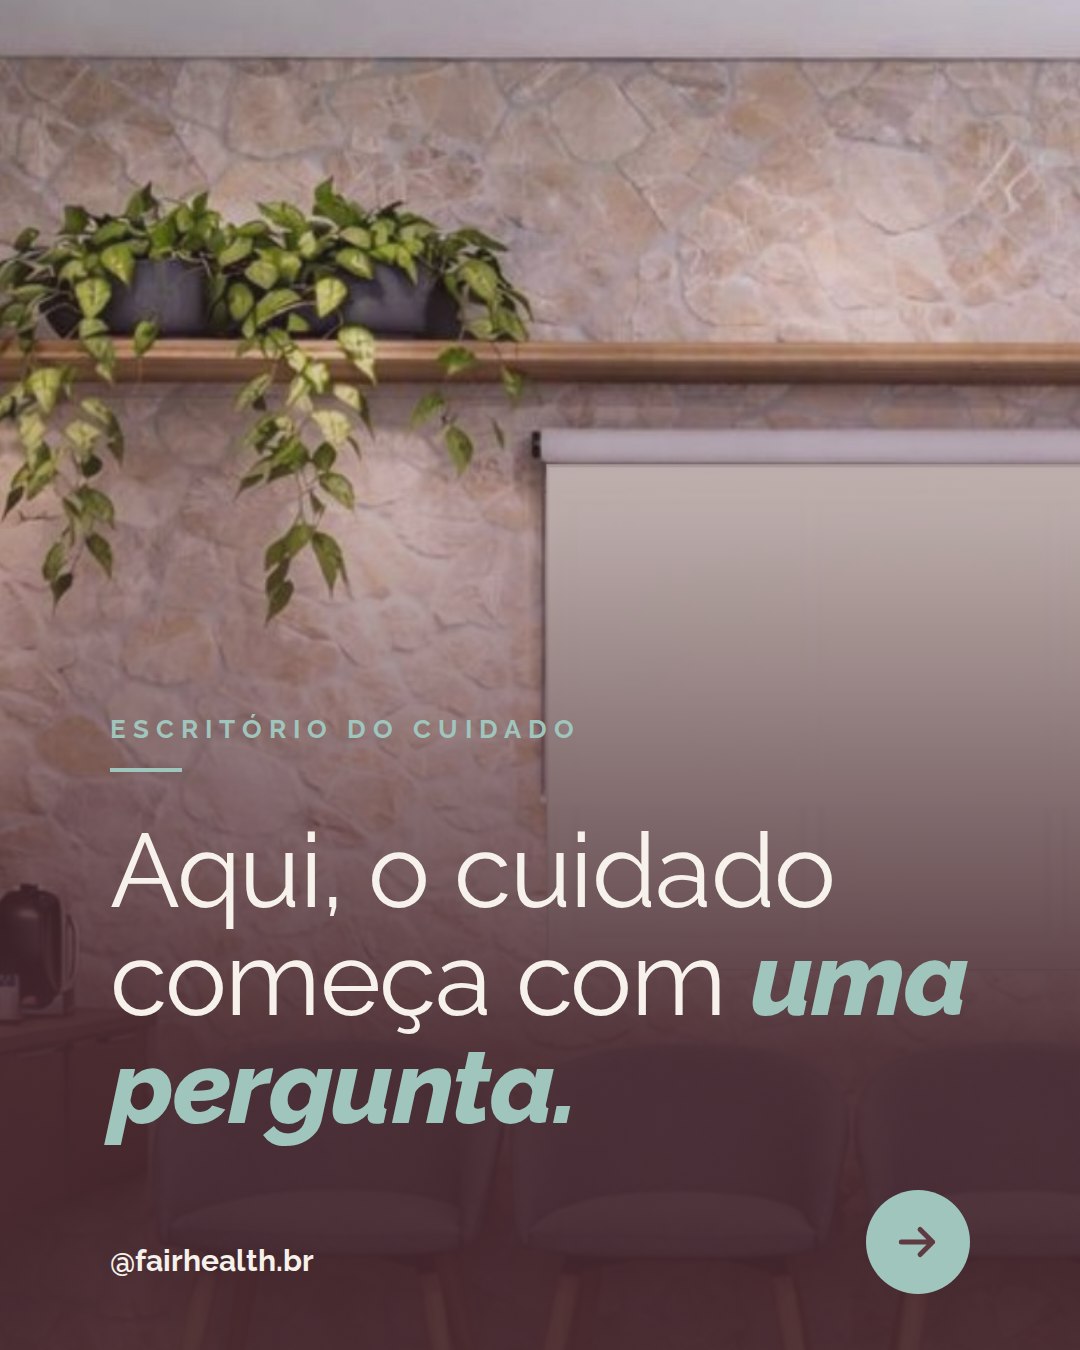
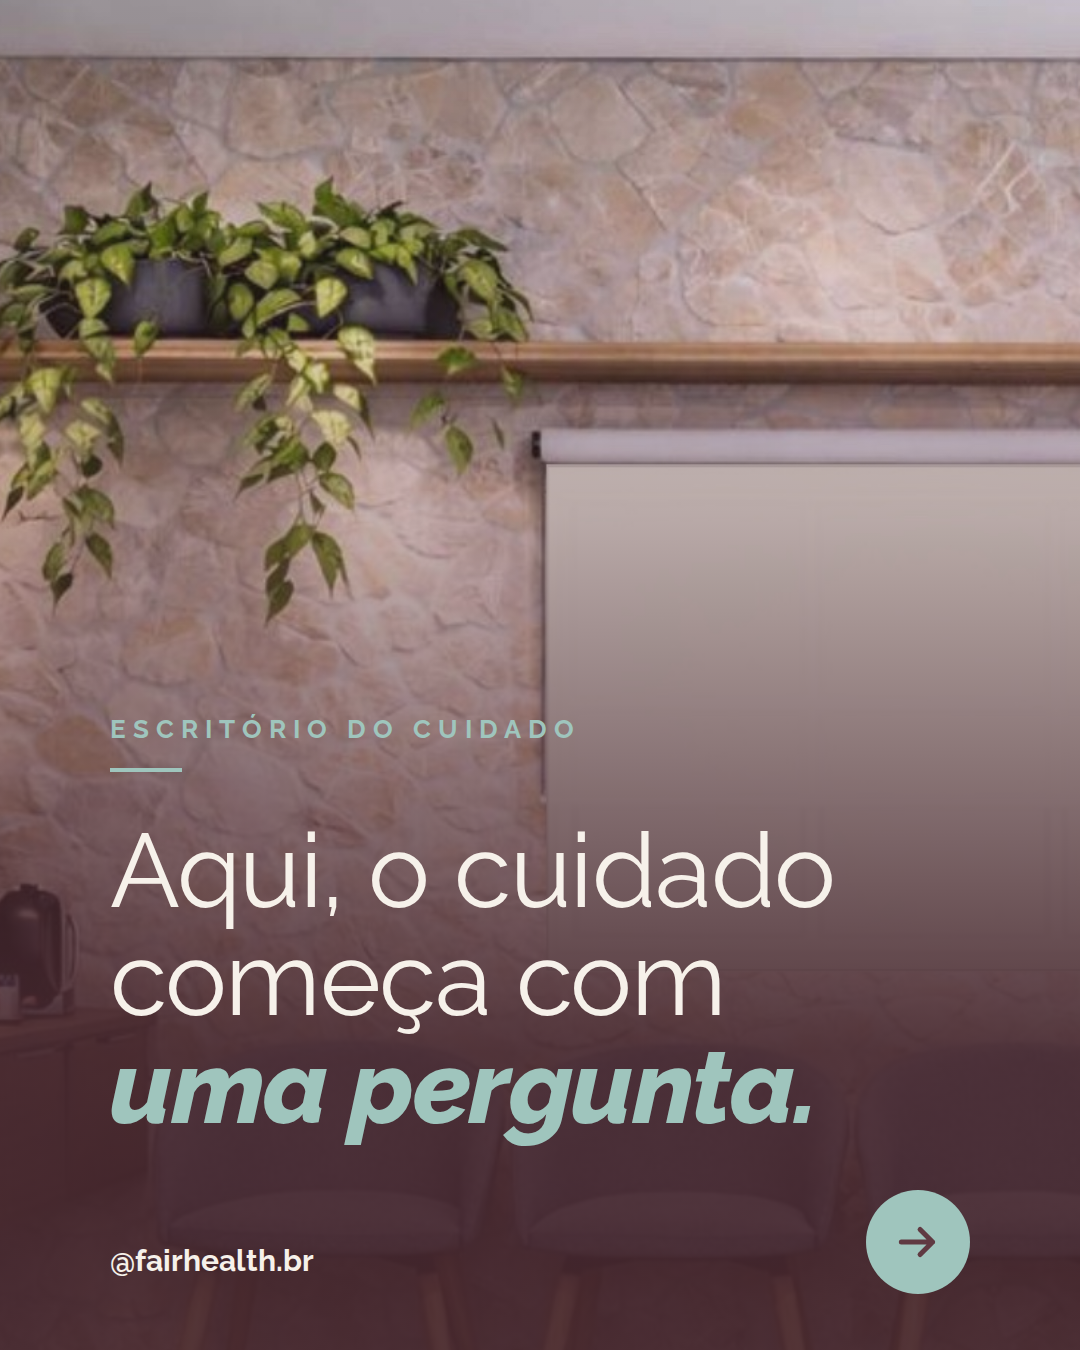
Plum test carousel: explicit line breaks on the cover title
Claude-Session: https://claude.ai/code/session_011JWhGAkUjJPXHMtv46EUoM

Changed region(s): [[0.0917, 0.6844, 0.9167, 0.8711]]

diff --git a/instagram/canva/carrossel-acolhimento-ameixa-capa.html b/instagram/canva/carrossel-acolhimento-ameixa-capa.html
@@ -91,103 +91,10 @@ h1 b{font-weight:800;font-style:italic}
 .logo-c{width:180px;margin-bottom:64px}
 .lista .li{padding:22px 0;border-bottom:3px solid color-mix(in srgb,var(--acento) 35%,transparent)}.lista .li:last-child{border:0}.lista .li span{font-weight:800;font-style:italic;color:var(--acento);margin-right:18px}.flecha{border:0!important}.flecha svg{width:110px!important;height:110px!important}
 </style></head><body>
-
-<!-- 1 · capa -->
 <section data-document-role="page" class="slide f-foto" id="b-01" style="background-image:url(https://raw.githubusercontent.com/nina-rebello/Comunica-o-FH/claude/eager-bell-tblhnh/instagram/marca/espaco/recepcao-parede-pedra.jpg);background-position:30% 18%;background-size:auto 118%">
   <div class="kicker em-verde">Escritório do Cuidado</div>
   <h1>Aqui, o cuidado<br>começa com<br><b class="em-verde">uma pergunta.</b></h1>
   <div class="seta" style="background:var(--verde)"><svg viewBox="0 0 24 24" fill="none" stroke="#603A42" stroke-width="2.4" stroke-linecap="round" stroke-linejoin="round"><circle cx="12" cy="12" r="11.2" stroke-width=".9"/><path transform="translate(6 6) scale(.5)" d="M4 12h15M13 6l6 6-6 6"/></svg></div>
   <div class="handle">@fairhealth.br</div>
-</section>
-
-<!-- 2 · o espaço -->
-<section data-document-role="page" class="slide split f-verde" id="b-02">
-  <div class="foto" style="background-image:url(https://raw.githubusercontent.com/nina-rebello/Comunica-o-FH/claude/eager-bell-tblhnh/instagram/marca/espaco/copa-parede-verde.jpg)"></div>
-  <div class="painel">
-    <h1 style="font-size:92px">Fica <b><span class="sublinha-a">dentro da empresa.</span></b></h1>
-    <p class="sub" style="margin-top:32px">Pertinho de onde você já está. Sem deslocamento, sem fila.</p>
-  </div>
-  <div class="pag" style="color:#fff">2/10</div>
-  <div class="handle">@fairhealth.br</div>
-</section>
-
-<!-- 3 · quem cuida -->
-<section data-document-role="page" class="slide f-ameixa" id="b-03"><div class="pag">3/10</div>
-  <div class="circulo" style="width:820px;height:820px;right:-300px;top:-240px;border:3px solid rgba(159,197,189,.45)"></div>
-  <div class="circulo" style="width:520px;height:520px;right:-120px;top:-60px;background:rgba(159,197,189,.12)"></div>
-  <div class="kicker em-verde">Quem cuida</div>
-  <h1>Gente que cuida <b class="em-verde">de gente.</b></h1>
-  <p class="sub">Médicos e psicólogos que se revezam no espaço, olhando para a pessoa inteira.</p>
-  <div class="handle">@fairhealth.br</div>
-</section>
-
-<!-- 4 · passo 1 -->
-<section data-document-role="page" class="slide f-creme" id="b-04"><div class="pag">4/10</div>
-  <div class="passo"><div class="n" style="color:var(--ameixa);background:var(--verde);border-color:var(--verde)">1</div><div class="t">PASSO 1</div></div>
-  <h1>Primeiro, a gente <b><span class="sublinha">te conhece.</span></b></h1>
-  <p class="sub">Uma conversa sobre sua rotina, seus hábitos e sua saúde.</p>
-  <div class="handle">@fairhealth.br</div>
-</section>
-
-<!-- 5 · passo 2: a pergunta -->
-<section data-document-role="page" class="slide f-verde centro" id="b-05"><div class="pag">5/10</div>
-  <div class="circulo" style="width:980px;height:980px;left:50%;top:50%;transform:translate(-50%,-54%);background:var(--verde-claro)"></div>
-  <div class="passo" style="justify-content:center;margin-bottom:40px"><div class="t">PASSO 2 · A PERGUNTA</div></div>
-  <h1 style="font-size:128px;line-height:1">O que é <b>importante</b> para você?</h1>
-  <p class="sub" style="max-width:720px">É a partir da sua resposta que o cuidado ganha sentido.</p>
-  <div class="handle" style="left:0;right:0;text-align:center">@fairhealth.br</div>
-</section>
-
-<!-- 6 · passo 3 -->
-<section data-document-role="page" class="slide f-creme" id="b-06"><div class="pag">6/10</div>
-  <div class="passo"><div class="n" style="color:var(--ameixa);background:var(--verde);border-color:var(--verde)">3</div><div class="t">PASSO 3</div></div>
-  <h1>Entender <b><span class="sublinha">antes de propor.</span></b></h1>
-  <div class="pills">
-    <span class="pill" style="background:var(--ameixa);color:var(--creme)">Bioimpedância</span>
-    <span class="pill" style="background:var(--ameixa);color:var(--creme)">Smartband por 48 horas</span>
-  </div>
-  <p class="sub">Para conhecer seu sono e seu dia a dia de verdade. <b>Para entender, não para julgar.</b></p>
-  <div class="handle">@fairhealth.br</div>
-</section>
-
-<!-- 7 · passo 4 -->
-<section data-document-role="page" class="slide f-ameixa" id="b-07"><div class="pag">7/10</div>
-  <div class="passo"><div class="n" style="color:var(--ameixa);background:var(--verde);border-color:var(--verde)">4</div><div class="t em-verde">PASSO 4</div></div>
-  <h1>O plano <b class="em-verde">é seu.</b></h1>
-  <p class="sub">Montado a partir do que é importante para você, nos pilares da Medicina do Estilo de Vida:</p>
-  <div class="pills" style="margin-top:40px">
-    <span class="pill" style="border:3px solid var(--verde);color:var(--verde)">Alimentação</span>
-    <span class="pill" style="border:3px solid var(--verde);color:var(--verde)">Movimento</span>
-    <span class="pill" style="border:3px solid var(--verde);color:var(--verde)">Sono</span>
-    <span class="pill" style="border:3px solid var(--verde);color:var(--verde)">Estresse</span>
-    <span class="pill" style="border:3px solid var(--verde);color:var(--verde)">Vícios</span>
-    <span class="pill" style="border:3px solid var(--verde);color:var(--verde)">Relações</span>
-  </div>
-  <div class="handle">@fairhealth.br</div>
-</section>
-
-<!-- 8 · passo 5 -->
-<section data-document-role="page" class="slide f-foto escuro-mais" id="b-08" style="background-image:url(https://raw.githubusercontent.com/nina-rebello/Comunica-o-FH/claude/eager-bell-tblhnh/instagram/marca/espaco/sala-atendimento-e-espera.jpg);background-position:22% center"><div class="pag">8/10</div>
-  <div class="passo" style="margin-bottom:44px"><div class="n" style="color:var(--ameixa);background:var(--verde);border-color:var(--verde)">5</div><div class="t em-verde">PASSO 5</div></div>
-  <h1>No retorno, a gente <b class="em-verde">explica cada passo.</b></h1>
-  <p class="sub">E segue junto, ajustando o plano quando a vida muda.</p>
-  <div class="handle">@fairhealth.br</div>
-</section>
-
-<!-- 9 · sigilo -->
-<section data-document-role="page" class="slide f-creme" id="b-09"><div class="pag">9/10</div>
-  <div class="icone" style="background:var(--verde)"><svg viewBox="0 0 24 24" fill="none" stroke="#603A42" stroke-width="1.8" stroke-linecap="round" stroke-linejoin="round"><rect x="5" y="11" width="14" height="10" rx="2"/><path d="M8 11V7a4 4 0 0 1 8 0v4"/></svg></div>
-  <h1>O que você conta <b><span class="sublinha">fica aqui.</span></b></h1>
-  <div class="cartao" style="background:var(--rose)">Fica entre você e quem cuida. A empresa só vê <b>dados do grupo</b>, sem identificar ninguém.</div>
-  <div class="handle">@fairhealth.br</div>
-</section>
-
-<!-- 10 · convite -->
-<section data-document-role="page" class="slide f-verde centro" id="b-10"><div class="pag">10/10</div>
-  <img class="logo-c" src="https://raw.githubusercontent.com/nina-rebello/Comunica-o-FH/claude/eager-bell-tblhnh/instagram/marca/logo-circulo.png" alt="">
-  <h1 style="font-size:96px">E para você, <b>o que é importante?</b></h1>
-  <span class="botao" style="background:var(--ameixa);color:var(--creme)">Conta pra gente nos comentários</span>
-  <p class="assina">« Fazemos o certo pelos motivos certos »</p>
-  <div class="handle" style="left:0;right:0;text-align:center">@fairhealth.br</div>
 </section>
 </body></html>

diff --git a/instagram/posts/acolhimento/ameixa.html b/instagram/posts/acolhimento/ameixa.html
@@ -58,7 +58,7 @@ h1 b{font-weight:800;font-style:italic}
 <!-- 1 · capa -->
 <section class="slide f-foto" id="b-01" style="background-image:url(../../marca/espaco/recepcao-parede-pedra.jpg);background-position:30% 18%;background-size:auto 118%">
   <div class="kicker em-verde">Escritório do Cuidado</div>
-  <h1>Aqui, o cuidado começa com <b class="em-verde">uma pergunta.</b></h1>
+  <h1>Aqui, o cuidado<br>começa com<br><b class="em-verde">uma pergunta.</b></h1>
   <div class="seta" style="background:var(--verde)"><svg viewBox="0 0 24 24" fill="none" stroke="#603A42" stroke-width="2.4" stroke-linecap="round" stroke-linejoin="round"><path d="M4 12h15M13 6l6 6-6 6"/></svg></div>
   <div class="handle">@fairhealth.br</div>
 </section>
